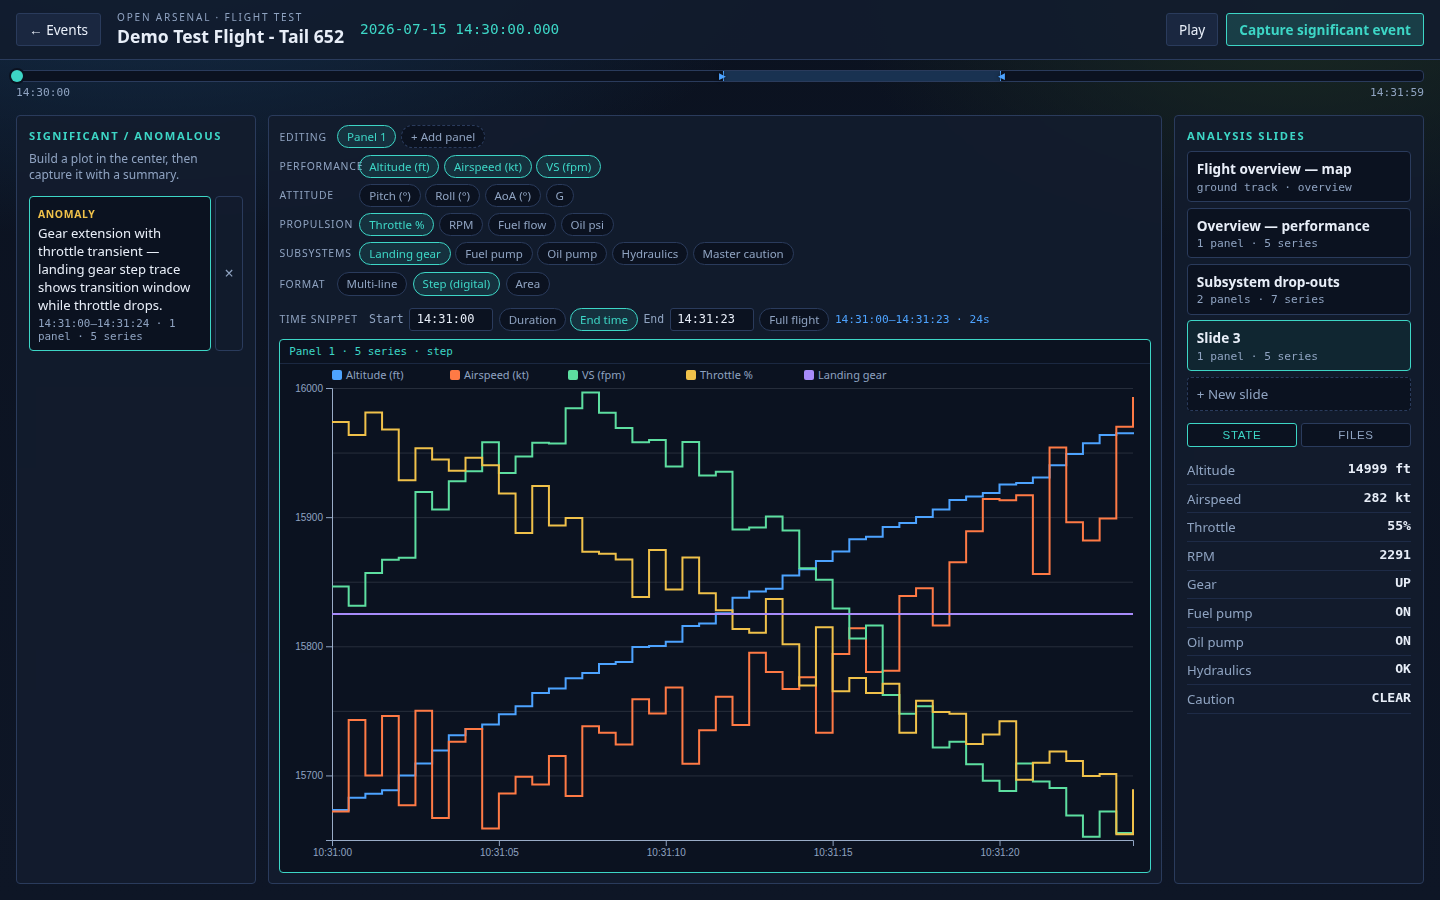
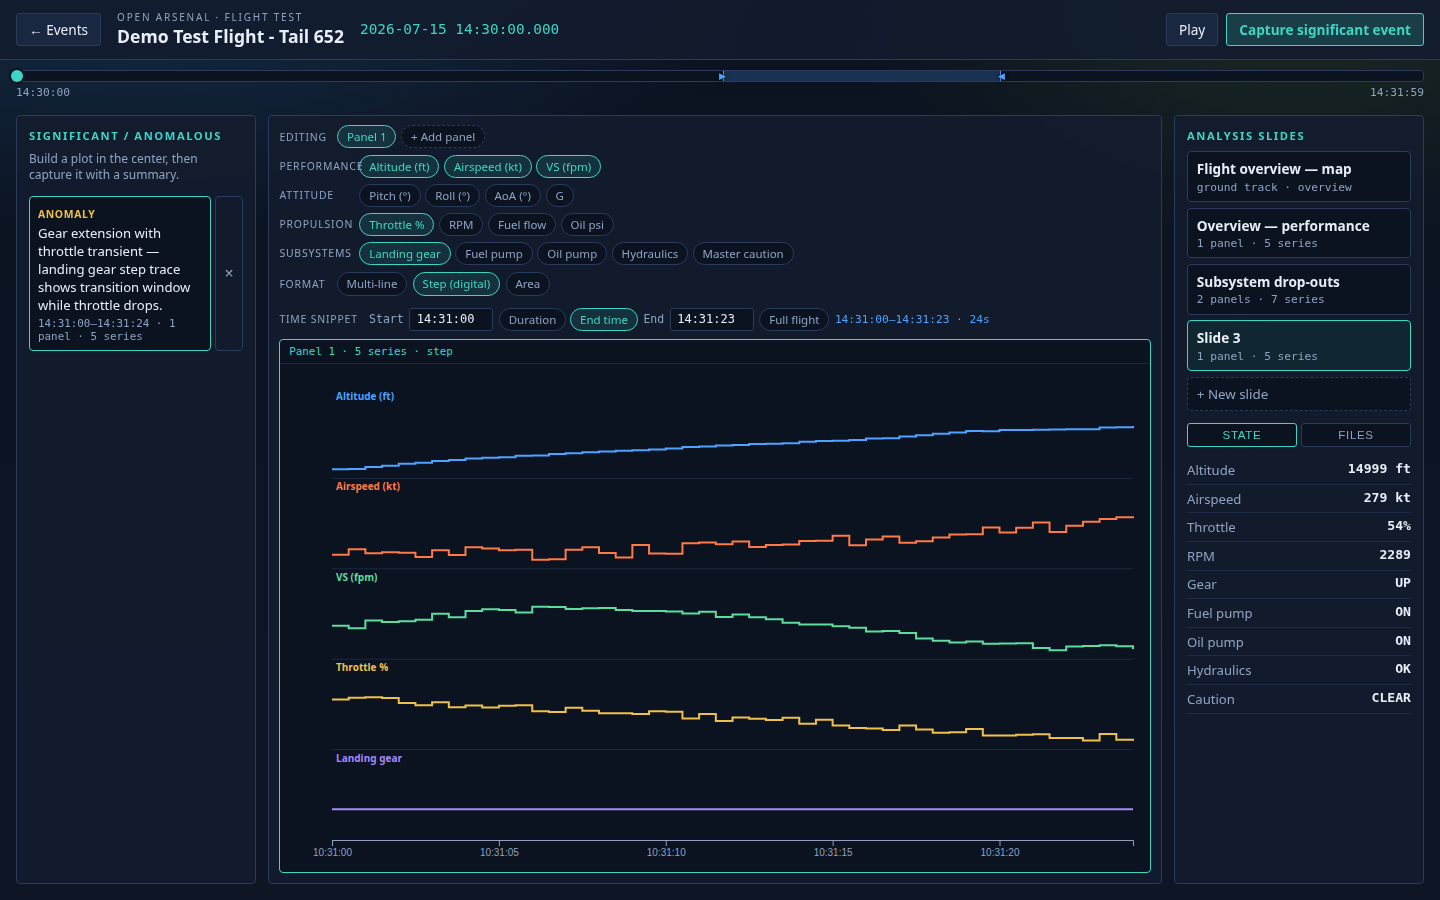
Step format: render each parameter in its own digital lane
- Step (digital) panels now stack each parameter in its own lane with
  a colored in-lane label and lane separators (logic-analyzer style),
  so subsystem discretes no longer draw on top of each other
- Constant-in-window series get an expanded domain to stay visible
- Legend suppressed for step panels (lane labels replace it)
- Validator asserts 4 discrete lane labels on Subsystem drop-outs;
  Gherkin/OpenSpec/Beads updated; screenshots re-captured

diff --git a/frontend/src/lib/AnalysisStation.svelte b/frontend/src/lib/AnalysisStation.svelte
@@ -549,50 +549,96 @@
       )
       .attr('color', '#8fa3c1');
 
-    panel.params.forEach((key, i) => {
-      const vals = windowData.map((d) => +d[key]).filter((v) => !isNaN(v));
-      if (!vals.length) return;
-      const y = d3.scaleLinear().domain(d3.extent(vals)).nice().range([innerH, 0]);
-      const color = COLORS[i % COLORS.length];
+    if (panel.format === 'step') {
+      // Digital lanes: each parameter gets its own stacked band (logic-analyzer
+      // style) so discretes like pumps / caution never draw on top of each other.
+      const laneH = innerH / panel.params.length;
+      panel.params.forEach((key, i) => {
+        const vals = windowData.map((d) => +d[key]).filter((v) => !isNaN(v));
+        if (!vals.length) return;
+        const ext = d3.extent(vals);
+        // constant series (e.g. pump stays ON in this window) still need a band
+        const dom = ext[0] === ext[1] ? [ext[0] - 1, ext[1] + 1] : ext;
+        const y = d3
+          .scaleLinear()
+          .domain(dom)
+          .range([i * laneH + laneH * 0.9, i * laneH + laneH * 0.42]);
+        const color = COLORS[i % COLORS.length];
 
-      if (i === 0) {
-        g.append('g')
-          .call(d3.axisLeft(y).ticks(4).tickFormat(d3.format('~g')))
-          .attr('color', '#8fa3c1');
-        g.append('g')
-          .attr('opacity', 0.12)
-          .call(d3.axisLeft(y).tickSize(-innerW).tickFormat(''));
-      }
+        if (i > 0) {
+          g.append('line')
+            .attr('x1', 0)
+            .attr('x2', innerW)
+            .attr('y1', i * laneH)
+            .attr('y2', i * laneH)
+            .attr('stroke', '#2a3b5c')
+            .attr('opacity', 0.6);
+        }
 
-      const curve =
-        panel.format === 'step' ? d3.curveStepAfter : d3.curveMonotoneX;
-
-      if (panel.format === 'area') {
-        const area = d3
-          .area()
+        const line = d3
+          .line()
           .x((d) => x(d._date))
-          .y0(innerH)
-          .y1((d) => y(+d[key]))
-          .curve(curve);
+          .y((d) => y(+d[key]))
+          .curve(d3.curveStepAfter);
         g.append('path')
           .datum(windowData)
-          .attr('fill', color)
-          .attr('opacity', 0.25)
-          .attr('d', area);
-      }
+          .attr('fill', 'none')
+          .attr('stroke', color)
+          .attr('stroke-width', 2)
+          .attr('d', line);
 
-      const line = d3
-        .line()
-        .x((d) => x(d._date))
-        .y((d) => y(+d[key]))
-        .curve(curve);
-      g.append('path')
-        .datum(windowData)
-        .attr('fill', 'none')
-        .attr('stroke', color)
-        .attr('stroke-width', 2)
-        .attr('d', line);
-    });
+        const label = ALL_PARAMS.find((p) => p.key === key)?.label || key;
+        g.append('text')
+          .attr('x', 4)
+          .attr('y', i * laneH + 12)
+          .attr('fill', color)
+          .attr('font-size', 10)
+          .attr('font-weight', 600)
+          .text(label);
+      });
+    } else {
+      panel.params.forEach((key, i) => {
+        const vals = windowData.map((d) => +d[key]).filter((v) => !isNaN(v));
+        if (!vals.length) return;
+        const y = d3.scaleLinear().domain(d3.extent(vals)).nice().range([innerH, 0]);
+        const color = COLORS[i % COLORS.length];
+
+        if (i === 0) {
+          g.append('g')
+            .call(d3.axisLeft(y).ticks(4).tickFormat(d3.format('~g')))
+            .attr('color', '#8fa3c1');
+          g.append('g')
+            .attr('opacity', 0.12)
+            .call(d3.axisLeft(y).tickSize(-innerW).tickFormat(''));
+        }
+
+        if (panel.format === 'area') {
+          const area = d3
+            .area()
+            .x((d) => x(d._date))
+            .y0(innerH)
+            .y1((d) => y(+d[key]))
+            .curve(d3.curveMonotoneX);
+          g.append('path')
+            .datum(windowData)
+            .attr('fill', color)
+            .attr('opacity', 0.25)
+            .attr('d', area);
+        }
+
+        const line = d3
+          .line()
+          .x((d) => x(d._date))
+          .y((d) => y(+d[key]))
+          .curve(d3.curveMonotoneX);
+        g.append('path')
+          .datum(windowData)
+          .attr('fill', 'none')
+          .attr('stroke', color)
+          .attr('stroke-width', 2)
+          .attr('d', line);
+      });
+    }
 
     // shared scrub cursor across all panels, if inside window
     if (snapshot && snapshot._date >= x.domain()[0] && snapshot._date <= x.domain()[1]) {
@@ -606,7 +652,8 @@
         .attr('stroke-width', 1.2);
     }
 
-    // legend
+    // legend (step lanes carry their own colored labels)
+    if (panel.format === 'step') return;
     panel.params.forEach((key, i) => {
       const label = ALL_PARAMS.find((p) => p.key === key)?.label || key;
       const lx = i * 118;

diff --git a/openspec/changes/multi-panel-plots/specs/flight-test-analysis/spec.md b/openspec/changes/multi-panel-plots/specs/flight-test-analysis/spec.md
@@ -10,7 +10,8 @@ timeline scrub cursor so different data can be correlated on one time base.
 - **GIVEN** the "Subsystem drop-outs" slide
 - **WHEN** the analyst reviews a master caution assertion
 - **THEN** the top panel shows the caution and pump/hydraulic discretes as
-  step traces
+  step traces, each in its own labeled lane (logic-analyzer style) so traces
+  never draw on top of each other
 - **AND** the bottom panel shows oil pressure, fuel flow, and RPM telemetry
   aligned to the same time axis
 - **AND** the scrub cursor appears at the same time in every panel

diff --git a/openspec/changes/multi-panel-plots/tasks.md b/openspec/changes/multi-panel-plots/tasks.md
@@ -12,6 +12,9 @@
 - [x] Capture / recall of significant events stores the full panel stack
 - [x] Slide and event metadata show panel + series counts
 - [x] Clean y-axis tick formatting (`~g`)
+- [x] Step (digital) format renders each parameter in its own stacked lane with
+      a colored in-lane label and lane separators (no overlapping 0/1 traces);
+      constant-in-window series still get a visible band
 
 ## Verified
 
